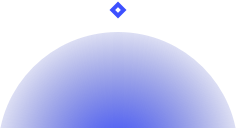
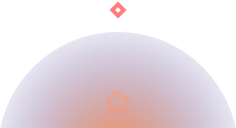
update new year theme

diff --git a/src/App.vue b/src/App.vue
@@ -39,6 +39,13 @@
             <a-layout-footer  v-show="$store.state.isShowFooter" class="footer">
                 <ibc-footer/>
             </a-layout-footer>
+            <div class="lantern_content">
+                <img src="./assets/lantern.png" alt="">
+            </div>
+            <div class="star_content"></div>
+            <div class="star_content_1"></div>
+            <div class="star_content_2"></div>
+            <div class="star_content_3"></div>
         </a-layout>
     </a-config-provider>
 </template>
@@ -237,6 +244,9 @@ a{
         }
     }
 }
+html body {
+    cursor: url("./assets/fireWorks.png"),default !important;
+}
 #app {
     font-family: Avenir, Helvetica, Arial, sans-serif;
     -webkit-font-smoothing: antialiased;
@@ -248,6 +258,7 @@ a{
     min-height: 100Vh;
     min-width: 1200px;
     overflow-x: auto;
+
 }
 
 .layout {
@@ -258,6 +269,59 @@ a{
     background-position: top center;
     background-color: #F5F7FC;
     flex: 1;
+    position: relative;
+    z-index: 2;
+    overflow-x: hidden;
+    .lantern_content{
+        position: absolute;
+        left: 50%;
+        top: 50%;
+        animation: flutter 10s infinite linear;
+        z-index: -1;
+    }
+    .star_content{
+        width: 100%;
+        height: 100%;
+        position: absolute;
+        left: 0%;
+        top: 0%;
+        animation: flutter1 17s infinite linear;
+        z-index: -1;
+        background: url("./assets/star4.png");
+    }
+    .star_content_1{
+        width: 100%;
+        height: 100%;
+        position: absolute;
+        left: -100%;
+        top: 0%;
+        animation: flutter2 20s infinite linear;
+        animation-delay: 3s;
+        z-index: -1;
+        background: url("./assets/star4.png");
+    }
+    .star_content_2{
+        width: 100%;
+        height: 100%;
+        position: absolute;
+        left: -100%;
+        top: 0%;
+        animation: flutter2 20s infinite linear;
+        animation-delay: 10s;
+        z-index: -1;
+        background: url("./assets/star4.png");
+    }
+    .star_content_3{
+        width: 100%;
+        height: 100%;
+        position: absolute;
+        left: -100%;
+        top: 0%;
+        animation: flutter2 20s infinite linear;
+        animation-delay: 17s;
+        z-index: -1;
+        background: url("./assets/star4.png");
+    }
     & .header {
         width: 100%;
         @include flex(column, nowrap, center, center);
@@ -347,4 +411,29 @@ a {
         color: #3d50ff
     }
 }
+@keyframes flutter {
+    0% {
+        transform: translate(-50%,0%);
+    }
+    100%{
+        transform: translate(0%,-250%);
+    }
+}
+@keyframes flutter1 {
+    0% {
+        transform: translate(-100%,-100%);
+    }
+    100%{
+        transform: translate(100%,0%);
+    }
+}
+@keyframes flutter2 {
+    0% {
+        transform: translate(-100%,-100%);
+    }
+    100%{
+        transform: translate(200%,0%);
+    }
+}
+
 </style>
